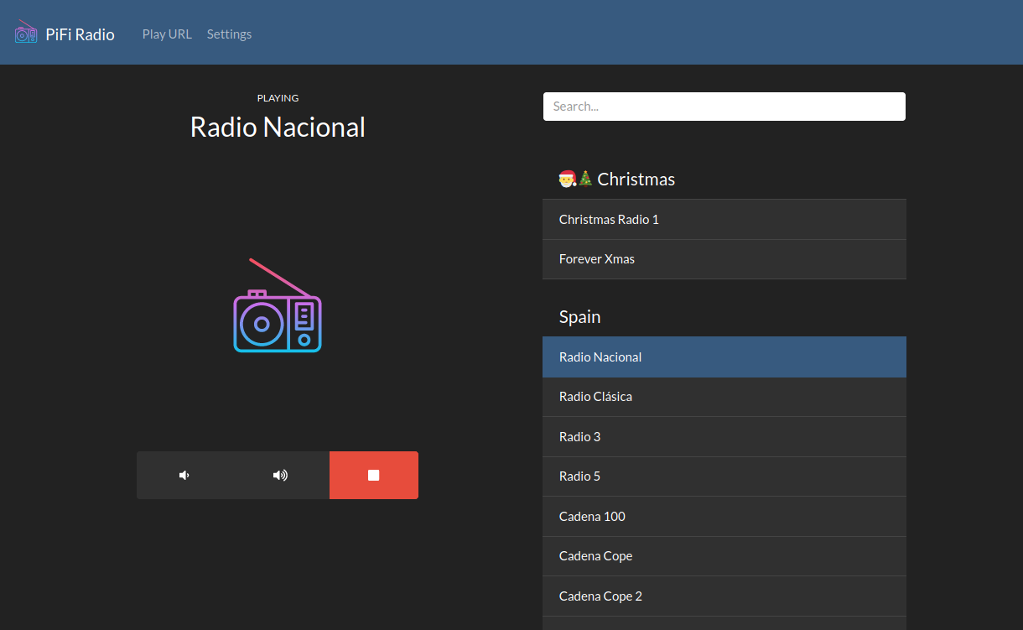
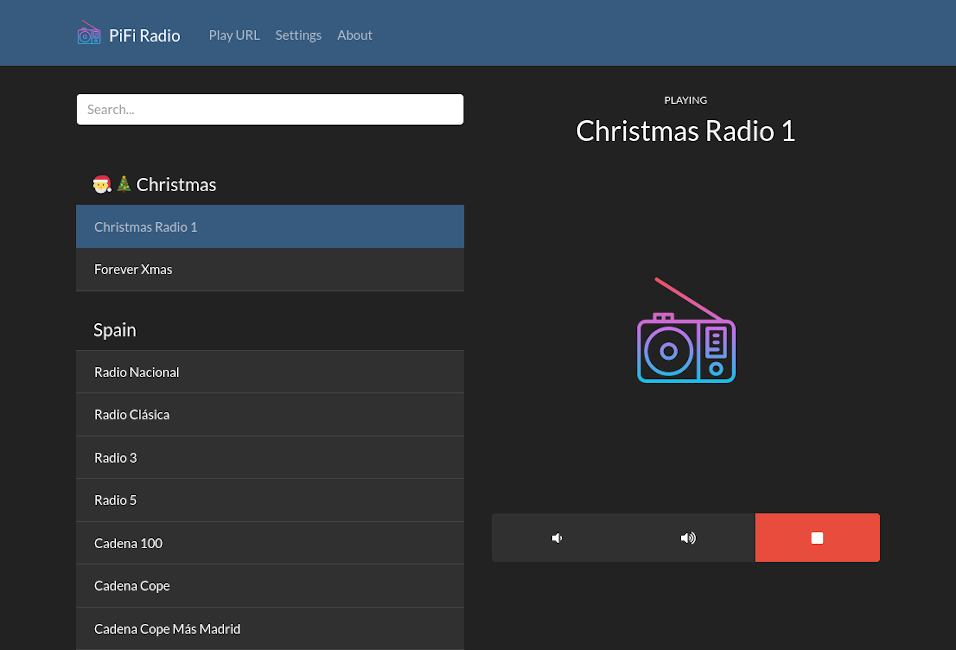
docs: Update demo screenshots

diff --git a/README.md b/README.md
@@ -49,6 +49,8 @@ PiFi is an interface for MPD, so it has some advantages compared to other soluti
 
 ![](docs/demo/mobile-01.png)
 
+![](docs/demo/mobile-02.png)
+
 ![](docs/demo/desktop-01.png)
 
 ![](docs/demo/desktop-02.png)
